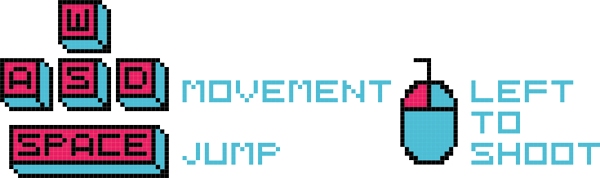
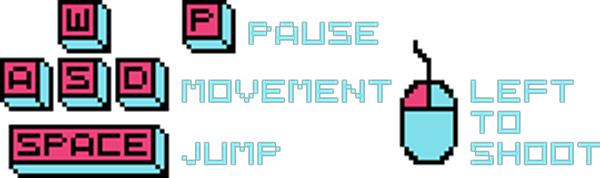
Add pause button to controls

Changed region(s): [[0.0, 0.0, 1.0, 0.9551], [0.0, 0.6742, 0.48, 1.0], [0.3, 0.0, 0.63, 0.309]]

diff --git a/frontend/src/game/game.js b/frontend/src/game/game.js
@@ -86,13 +86,13 @@ export default class Game {
     const mtlLoader = new MTLLoader();
 
     mtlLoader.setPath("./assets/models/");
-    mtlLoader.load('pistol.mtl', (materials) => {
+    mtlLoader.load('shotgun.mtl', (materials) => {
       materials.preload();
 
       const objLoader = new OBJLoader();
       objLoader.setMaterials(materials);
       objLoader.setPath("./assets/models/");
-      objLoader.load('pistol.obj', (object) => {
+      objLoader.load('shotgun.obj', (object) => {
         object.traverse(function (child) {
           if (child instanceof t.Mesh) {
             if (child.material.color) {
@@ -260,7 +260,7 @@ export default class Game {
         continue;
       }
 
-      this.activeBullets[i].translateZ(-800 * this.clock.getDelta() * 1.8);
+      this.activeBullets[i].translateZ(-800 * this.clock.getDelta());
 
       // Check to see if bug was hit
       for (var j = this.ai.length - 1; j >= 0; j--) {

diff --git a/frontend/src/components/Main.jsx b/frontend/src/components/Main.jsx
@@ -8,14 +8,12 @@ export default class Main extends React.Component {
     // By Eric Matyas @ https://soundimage.org/
     // const musicURL = "http://soundimage.org/wp-content/uploads/2016/07/Puzzle-Game_Looping.mp3";
     const musicURL = "https://soundimage.org/wp-content/uploads/2018/11/Dance-of-the-Satellites_Looping.mp3";
-    const audio = new Audio(musicURL);
-    const promise = audio.play();
-    if (promise !== undefined) {
-      promise.then(() => {
-        audio.play();
-        audio.currentTime = 0;
-      })
-    }
+    const introMusic = new Audio(musicURL);
+    introMusic.addEventListener('ended', function() {
+      this.currentTime = 0;
+      this.play();
+    }, false);
+    introMusic.play();
   }
 
   constructor(props) {

diff --git a/frontend/public/splash.css b/frontend/public/splash.css
@@ -14,7 +14,8 @@ body {
 footer {
   bottom: 2%;
   color: #2099D8;
-  font-size: 18px;
+  font-family: 'Orbitron', sans-serif;
+  font-size: 14px;
   position: absolute;
 }
 
@@ -124,6 +125,6 @@ footer {
 ::-ms-input-placeholder { /* Microsoft Edge */
   font-family: 'Orbitron', sans-serif;
 }
-::placeholder { /* Most modern browsers support this now. */
+::placeholder { /* Backup, most browsers support this now */
   font-family: 'Orbitron', sans-serif;
 }
